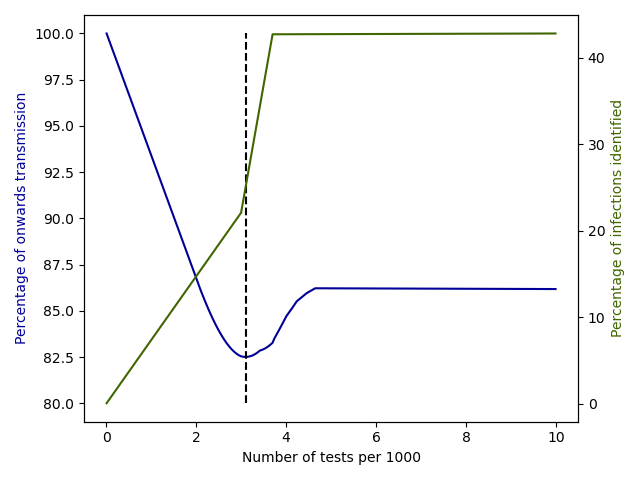
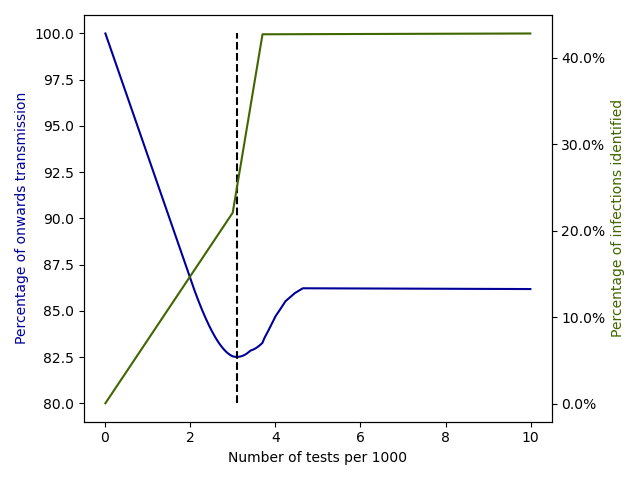
Added stochastic TATs

diff --git a/create_figures.py b/create_figures.py
@@ -4,16 +4,21 @@ from SimpleModelsModule import TestOptimisation
 import param_values as scenario
 import plotting_code
 import itertools
+import matplotlib.ticker as mtick
 
 if __name__ == "__main__":
-    test_figure_area = True
-    tat_figure = True
-    kretzschmar_figure = True
-    onward_transmission_double_figure = True
-    track_trace_impact_figure = True
-    positive_percent_impact_figure = True
-    supplement_pos_perc_figures = True
-    supplement_figure_non_quadratic = True
+    test_figure_area = False
+    tat_figure = False
+    kretzschmar_figure = False
+    onward_transmission_double_figure = False
+    track_trace_impact_figure = False
+    positive_percent_impact_figure = False
+    supplement_pos_perc_figures = False
+    supplement_figure_non_quadratic = False
+
+    supplement_figure_stochastic_tat = False
+    supplement_figure_TAT_dist_hist = False
+    supplement_figure_swab_delay = True
 
     base_figure_directory = 'MS_figures'
 
@@ -302,6 +307,7 @@ if __name__ == "__main__":
         ax2 = ax1.twinx()
         color = [.25, .4, 0]
         ax2.plot([i/100 for i in test_array], 100*positive_array*np.array(test_array)/cases_high, color=color)
+        ax2.yaxis.set_major_formatter(mtick.PercentFormatter())
         ax2.set_ylabel('Percentage of infections identified', color=color)
 
         fig.tight_layout()
@@ -323,6 +329,7 @@ if __name__ == "__main__":
         color = [.25, .4, 0]
         ax2.plot([i/100 for i in test_array], 100*positive_array, color=color)
         ax2.set_ylabel('Percentage positive', color=color)
+        ax2.yaxis.set_major_formatter(mtick.PercentFormatter())
 
         fig.tight_layout()
         plt.savefig(f'{base_figure_directory}/Perc_pos_transmission.png')
@@ -601,4 +608,215 @@ if __name__ == "__main__":
         plt.savefig('MS_figures/kretzschmar_results.png')
         plt.show()
         plt.close()
+
+
+    if supplement_figure_stochastic_tat:
+        total_population = scenario.total_population
+
+        # High prevelance
+        onward_transmission_vector_high = \
+            plotting_code.make_onward_transmission_vector(*scenario.onward_transmission_high)
+
+        test_prob_high = scenario.test_prob_high
+
+        population_high, cases_high = \
+            plotting_code.make_population_tuple(num_close=scenario.pop_high[0],
+                                                num_symp=scenario.pop_high[1],
+                                                total_pop=total_population,
+                                                presenting_proporition=1,
+                                                probability_by_indication=test_prob_high)
+
+        print(f'Daily infections = {cases_high}')
+
+        # Low prevelance
+        onward_transmission_vector_low = \
+            plotting_code.make_onward_transmission_vector(*scenario.onward_transmission_low)
+
+        test_prob_low = scenario.test_prob_low
+
+        population_low, cases_low = \
+            plotting_code.make_population_tuple(num_close=scenario.pop_low[0],
+                                                num_symp=scenario.pop_low[1],
+                                                total_pop=total_population,
+                                                presenting_proporition=1,
+                                                probability_by_indication=test_prob_low)
+
+        print(f'Daily infections = {cases_low}')
+
+        # priority_values = [True, False]
+        priority_values = [False]
+        capacity_values = [scenario.test_capacity_high]
+        # symp_prop_values = [.5, 1]
+        symp_prop_values = [.5]
+        scenario_names = ['High_prev']
+        situation_dict = {
+                          'High_prev': {'onward': onward_transmission_vector_high,
+                                       'pop': population_high,
+                                       'pre_prob': test_prob_high}
+                          }
+        stochastic_param_list = [['deterministic', 1, 1, 'Deterministic'],
+                                 ['gamma', 100, 1, 'Gamma scale = 1'],
+                                 ['gamma', 100, 2, 'Gamma scale = 5']]
+        priority_allocation_options = scenario.priority_order
+
+        fig, axs = plt.subplots(1, len(stochastic_param_list), figsize=(8,4))
+        axs_count = itertools.count()
+        for priority_value in priority_values:
+            for priority_order in priority_allocation_options:
+                for capacity_value in capacity_values:
+                    for symp_prop_value in symp_prop_values:
+
+                        for scenario_name in scenario_names:
+                            c_dict = situation_dict[scenario_name]
+                            for stoch_param in stochastic_param_list:
+                                axs_current = next(axs_count)
+
+                                test_optim = TestOptimisation(priority_queue=priority_value,
+                                                              onward_transmission=c_dict['onward'],
+                                                              population=c_dict['pop'],
+                                                              pre_test_probability=c_dict['pre_prob'],
+                                                              routine_capacity=capacity_value,
+                                                              symptomatic_testing_proportion=symp_prop_value,
+                                                              test_prioritsation_by_indication=priority_order,
+                                                              stochastic_tat_dist=stoch_param[0],
+                                                              stochastic_tat_reps=stoch_param[1],
+                                                              gamma_scale_for_tat_dist=stoch_param[2])
+                                test_array, transmission_array, positive_array = \
+                                    test_optim.generate_onward_transmission_with_tests(max_tests_proportion=1000/capacity_value)
+
+
+                                axs[axs_current].plot([i/100 for i in test_array], 100*transmission_array/max(transmission_array))
+
+                                axs[axs_current].set(xlabel='Number of tests per 1000')
+                                if axs_current == 0:
+                                    axs[axs_current].set(ylabel='Percentage of onward transmission')
+                                # axs[axs_current].legend(['Outbreak response', 'Community transmission'])
+                                # axs[axs_current].set
+                                axs[axs_current].plot([capacity_value/100]*2, [75, 100],'--r')
+                                axs[axs_current].title.set_text(stoch_param[3])
+        plt.savefig(f'{base_figure_directory}/Stochastic_TAT.png')
+        plt.show()
+
+    if supplement_figure_TAT_dist_hist:
+
+        reps = 1000
+        binwidth = 1
+
+        fig, axs = plt.subplots(1, 3, figsize=(8, 4))
+        axs_count = itertools.count()
+
+        for tat in (1,2,4):
+            axs_current = next(axs_count)
+            gamma_scale = 1
+            gamma_shape = tat/gamma_scale
+            data = np.random.gamma(shape=gamma_shape,
+                            scale=gamma_scale, size=reps)
+            axs[axs_current].hist(data, bins=np.arange(min(data), max(data) + binwidth, binwidth), alpha=.75)
+
+            gamma_scale = 5
+            gamma_shape = tat/gamma_scale
+            data = np.random.gamma(shape=gamma_shape,
+                            scale=gamma_scale, size=reps)
+            axs[axs_current].hist(data, bins=np.arange(min(data), max(data) + binwidth, binwidth), alpha=.75)
+
+            # gamma_scale = 0.2
+            # gamma_shape = tat/gamma_scale
+            # data = np.random.gamma(shape=gamma_shape,
+            #                 scale=gamma_scale, size=reps)
+            # axs[axs_current].hist(data, bins=np.arange(min(data), max(data) + binwidth, binwidth), alpha=.75)
+
+            axs[axs_current].legend(['Gamma scale = 1','Gamma scale = 5'])
+            axs[axs_current].title.set_text(f'TAT = {tat}')
+            if axs_current == 0:
+                axs[axs_current].set(ylabel='Frequency')
+            axs[axs_current].set(xlabel='Days')
+        plt.savefig(f'{base_figure_directory}/TAT_hist.png')
+        plt.show()
+
+
+    if supplement_figure_swab_delay:
+        total_population = scenario.total_population
+
+        # High prevelance
+        onward_transmission_vector_high = \
+            plotting_code.make_onward_transmission_vector(*scenario.onward_transmission_high)
+
+        test_prob_high = scenario.test_prob_high
+
+        population_high, cases_high = \
+            plotting_code.make_population_tuple(num_close=scenario.pop_high[0],
+                                                num_symp=scenario.pop_high[1],
+                                                total_pop=total_population,
+                                                presenting_proporition=1,
+                                                probability_by_indication=test_prob_high)
+
+        print(f'Daily infections = {cases_high}')
+
+        # Low prevelance
+        onward_transmission_vector_low = \
+            plotting_code.make_onward_transmission_vector(*scenario.onward_transmission_low)
+
+        test_prob_low = scenario.test_prob_low
+
+        population_low, cases_low = \
+            plotting_code.make_population_tuple(num_close=scenario.pop_low[0],
+                                                num_symp=scenario.pop_low[1],
+                                                total_pop=total_population,
+                                                presenting_proporition=1,
+                                                probability_by_indication=test_prob_low)
+
+        print(f'Daily infections = {cases_low}')
+
+        # priority_values = [True, False]
+        priority_values = [False]
+        capacity_values = [scenario.test_capacity_high]
+        # symp_prop_values = [.5, 1]
+        symp_prop_values = [.5]
+        scenario_names = ['High_prev']
+        situation_dict = {
+                          'High_prev': {'onward': onward_transmission_vector_high,
+                                       'pop': population_high,
+                                       'pre_prob': test_prob_high}
+                          }
+        swab_delay_list = [0, 1, 2]
+        priority_allocation_options = scenario.priority_order
+
+        fig, axs = plt.subplots(1, len(swab_delay_list), figsize=(8,4))
+        axs_count = itertools.count()
+        for priority_value in priority_values:
+            for priority_order in priority_allocation_options:
+                for capacity_value in capacity_values:
+                    for symp_prop_value in symp_prop_values:
+
+                        for scenario_name in scenario_names:
+                            c_dict = situation_dict[scenario_name]
+                            for swab_delay in swab_delay_list:
+                                axs_current = next(axs_count)
+
+                                test_optim = TestOptimisation(priority_queue=priority_value,
+                                                              onward_transmission=c_dict['onward'],
+                                                              population=c_dict['pop'],
+                                                              pre_test_probability=c_dict['pre_prob'],
+                                                              routine_capacity=capacity_value,
+                                                              symptomatic_testing_proportion=symp_prop_value,
+                                                              test_prioritsation_by_indication=priority_order,
+                                                              swab_delay=swab_delay)
+                                test_array, transmission_array, positive_array = \
+                                    test_optim.generate_onward_transmission_with_tests(max_tests_proportion=1000/capacity_value)
+
+
+                                axs[axs_current].plot([i/100 for i in test_array], 100*transmission_array/max(transmission_array))
+
+                                axs[axs_current].set(xlabel='Number of tests per 1000')
+                                if axs_current == 0:
+                                    axs[axs_current].set(ylabel='Percentage of onward transmission')
+                                # axs[axs_current].legend(['Outbreak response', 'Community transmission'])
+                                # axs[axs_current].set
+                                axs[axs_current].plot([capacity_value/100]*2, [70, 100],'--r')
+                                axs[axs_current].title.set_text(f'Swab delay = {swab_delay}')
+        plt.savefig(f'{base_figure_directory}/Swab_delay_vary.png')
+        plt.show()
+
+
+
     pass

diff --git a/SimpleModelsModule.py b/SimpleModelsModule.py
@@ -17,7 +17,10 @@ class TestOptimisation:
                  swab_delay=1,
                  symptomatic_testing_proportion=1.,
                  test_prioritsation_by_indication=None,
-                 tat_function='quadratic'
+                 tat_function='quadratic',
+                 stochastic_tat_dist='deterministic',
+                 gamma_scale_for_tat_dist=1,
+                 stochastic_tat_reps=100
                  ):
         self.population = population
         self.close_contact, self.symptomatic, self.asymptomatic = population
@@ -38,6 +41,10 @@ class TestOptimisation:
         self.priority_order_indication = test_prioritsation_by_indication
 
         self.tat_function = tat_function
+
+        self.stochastic_tat_dist = stochastic_tat_dist
+        self.gamma_scale_for_tat_dist = gamma_scale_for_tat_dist
+        self.stochastic_tat_reps = stochastic_tat_reps
 
         if not 0 <= priority_capacity_proportion < 1:
             raise ValueError(f'Priority capacity proportion must be between '
@@ -306,13 +313,33 @@ class TestOptimisation:
         return tested_transmission + untested_transmission + priority_tested_transmission
 
     @lru_cache()
-    def estimate_transmission_with_testing(self, num_test):
-        tat = self.turn_around_time(num_test)  # todo: remove priority queue from turn_around_time?
-        test_allocation = self.allocate_tests(num_tests=num_test,
-                                              result_delay=tat)
-        percent_positive = sum(np.array(self.pre_test_by_indication) * np.sum(test_allocation, 0)) / num_test
-        total_transmission = self.estimate_total_tranmission(test_allocation,
-                                                             result_delay=tat)
+    def estimate_transmission_with_testing(self, num_test, distribution='deterministic',
+                                           gamma_scale=1, reps=100):
+        if distribution == 'deterministic':
+            tat = self.turn_around_time(num_test)  # todo: remove priority queue from turn_around_time?
+            test_allocation = self.allocate_tests(num_tests=num_test,
+                                                  result_delay=tat)
+            percent_positive = sum(np.array(self.pre_test_by_indication) * np.sum(test_allocation, 0)) / num_test
+            total_transmission = self.estimate_total_tranmission(test_allocation,
+                                                                 result_delay=tat)
+        elif distribution == 'gamma':
+            average_tat = self.turn_around_time(num_test)
+            gamma_shape = average_tat/gamma_scale
+            tat_list = np.random.gamma(shape=gamma_shape,
+                            scale=gamma_scale, size=reps) #note variance = shape*scale^2
+            perc_pos_list = list()
+            tot_trans_list = list()
+            for tat in tat_list:
+                test_allocation = self.allocate_tests(num_tests=num_test,
+                                                      result_delay=tat)
+                perc_pos_list.append(sum(np.array(self.pre_test_by_indication) * np.sum(test_allocation, 0)) / num_test)
+                tot_trans_list.append(self.estimate_total_tranmission(test_allocation,
+                                                                 result_delay=tat))
+            total_transmission = np.mean(tot_trans_list)
+            percent_positive = np.mean(perc_pos_list)
+        else:
+            raise ValueError(f'Distribution {distribution} not recognised')
+
         return total_transmission, percent_positive
 
     @lru_cache()
@@ -322,7 +349,10 @@ class TestOptimisation:
         positivity = []
         for num_tests in num_test_array:
             current_onward_transmission, current_positive_percentage = \
-                self.estimate_transmission_with_testing(num_test=num_tests)
+                self.estimate_transmission_with_testing(num_test=num_tests,
+                                                        distribution=self.stochastic_tat_dist,
+                                                        gamma_scale=self.gamma_scale_for_tat_dist,
+                                                        reps=self.stochastic_tat_reps)
             transmission.append(current_onward_transmission)
             positivity.append(current_positive_percentage)
         transmission = np.array(transmission)  # /\
@@ -372,7 +402,10 @@ class TestOptimisation:
             opt_found_flag = False
             while opt_found_flag is False:
                 new_onward_transmission, new_percent_positive = \
-                    self.estimate_transmission_with_testing(num_test=c_tests)
+                    self.estimate_transmission_with_testing(num_test=c_tests,
+                                                        distribution=self.stochastic_tat_dist,
+                                                        gamma_scale=self.gamma_scale_for_tat_dist,
+                                                        reps=self.stochastic_tat_reps)
                 if new_onward_transmission > c_transmission:
                     opt_test = c_tests
                     opt_found_flag = True
